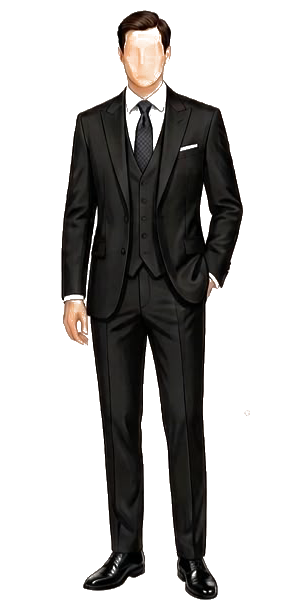
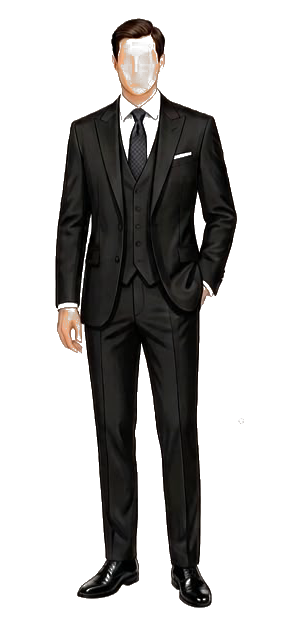
fix: dama y caballero simetricos; QR del album borroso hasta el dia del evento

Changed region(s): [[0.18, 0.0, 0.81, 0.9967], [0.57, 0.623, 0.6, 0.6852], [0.6, 0.7164, 0.63, 0.7475]]

diff --git a/index.html b/index.html
@@ -1256,7 +1256,7 @@ html.nm-js .familia-names.nm-multi.nm-on .nm{opacity:1;transform:none;filter:non
 /* ── Figuras (dibujos caballero / dama) ── */
 .ia-dc-figures {
   display: flex;
-  align-items: center;
+  align-items: flex-start;   /* los dibujos a la misma altura aunque las leyendas ocupen distintas lineas */
   justify-content: center;
   gap: 30px;
   margin: 6px auto 28px;
@@ -1272,6 +1272,7 @@ html.nm-js .familia-names.nm-multi.nm-on .nm{opacity:1;transform:none;filter:non
 .ia-dc-fig img {
   height: 220px;
   width: auto;
+  aspect-ratio: 300 / 620;
   max-width: 100%;
   object-fit: contain;
   display: block;
@@ -1933,6 +1934,11 @@ html.nm-js .familia-names.nm-multi.nm-on .nm{opacity:1;transform:none;filter:non
   .ia-rsvp-eyebrow{letter-spacing:.4em;padding-left:.4em;}
   .ia-rsvp-eyebrow::before,.ia-rsvp-eyebrow::after{width:20px;}
 }
+
+/* QR en espera: borroso hasta el dia del evento */
+.album-qr--espera{overflow:hidden;position:relative}
+.album-qr--espera img{filter:blur(7px);transform:scale(1.06);opacity:.85;user-select:none;-webkit-user-select:none;pointer-events:none}
+.album-qr-nota{margin-top:20px;font-family:var(--serif);font-style:italic;font-weight:500;font-size:18px;line-height:1.5;color:var(--ink-soft);text-align:center}
 </style>
 </head>
 <body>
@@ -2420,7 +2426,7 @@ html.nm-js .familia-names.nm-multi.nm-on .nm{opacity:1;transform:none;filter:non
 
       <div class="ia-dc-figures ia-dc-fu">
         <div class="ia-dc-fig">
-          <img src="ia-dc-caballero.png" alt="Caballero con traje formal" loading="lazy" decoding="async" width="300" height="610" />
+          <img src="ia-dc-caballero.png" alt="Caballero con traje formal" decoding="async" width="300" height="620" />
           <span class="ia-dc-fig-label">Caballeros</span>
           <span class="ia-dc-fig-sub">traje formal</span>
         </div>
@@ -2428,7 +2434,7 @@ html.nm-js .familia-names.nm-multi.nm-on .nm{opacity:1;transform:none;filter:non
         <div class="ia-dc-sep-line" aria-hidden="true"></div>
 
         <div class="ia-dc-fig">
-          <img src="ia-dc-dama.png" alt="Dama con vestido largo elegante" loading="lazy" decoding="async" width="248" height="604" />
+          <img src="ia-dc-dama.png" alt="Dama con vestido largo elegante" decoding="async" width="300" height="620" />
           <span class="ia-dc-fig-label">Damas</span>
           <span class="ia-dc-fig-sub">vestido largo o midi elegante</span>
         </div>
@@ -2558,8 +2564,8 @@ html.nm-js .familia-names.nm-multi.nm-on .nm{opacity:1;transform:none;filter:non
       <h2>Nuestro <em>álbum</em></h2>
       <div class="album-wrap">
         <p class="album-text">Después de la boda, sube tus fotos y videos a nuestro álbum compartido. Será nuestro recuerdo colectivo de esta noche tan especial.</p>
-        <div class="album-qr"><img src="album-qr.png" alt="Código QR del álbum compartido"></div>
-        <a class="album-btn" aria-disabled="true" href="#">Enlace por confirmar</a>
+        <div class="album-qr album-qr--espera" aria-hidden="true"><img src="album-qr.png" alt=""></div>
+        <p class="album-qr-nota">Estará disponible el día del evento</p>
       </div>
     </div>
   </section>
